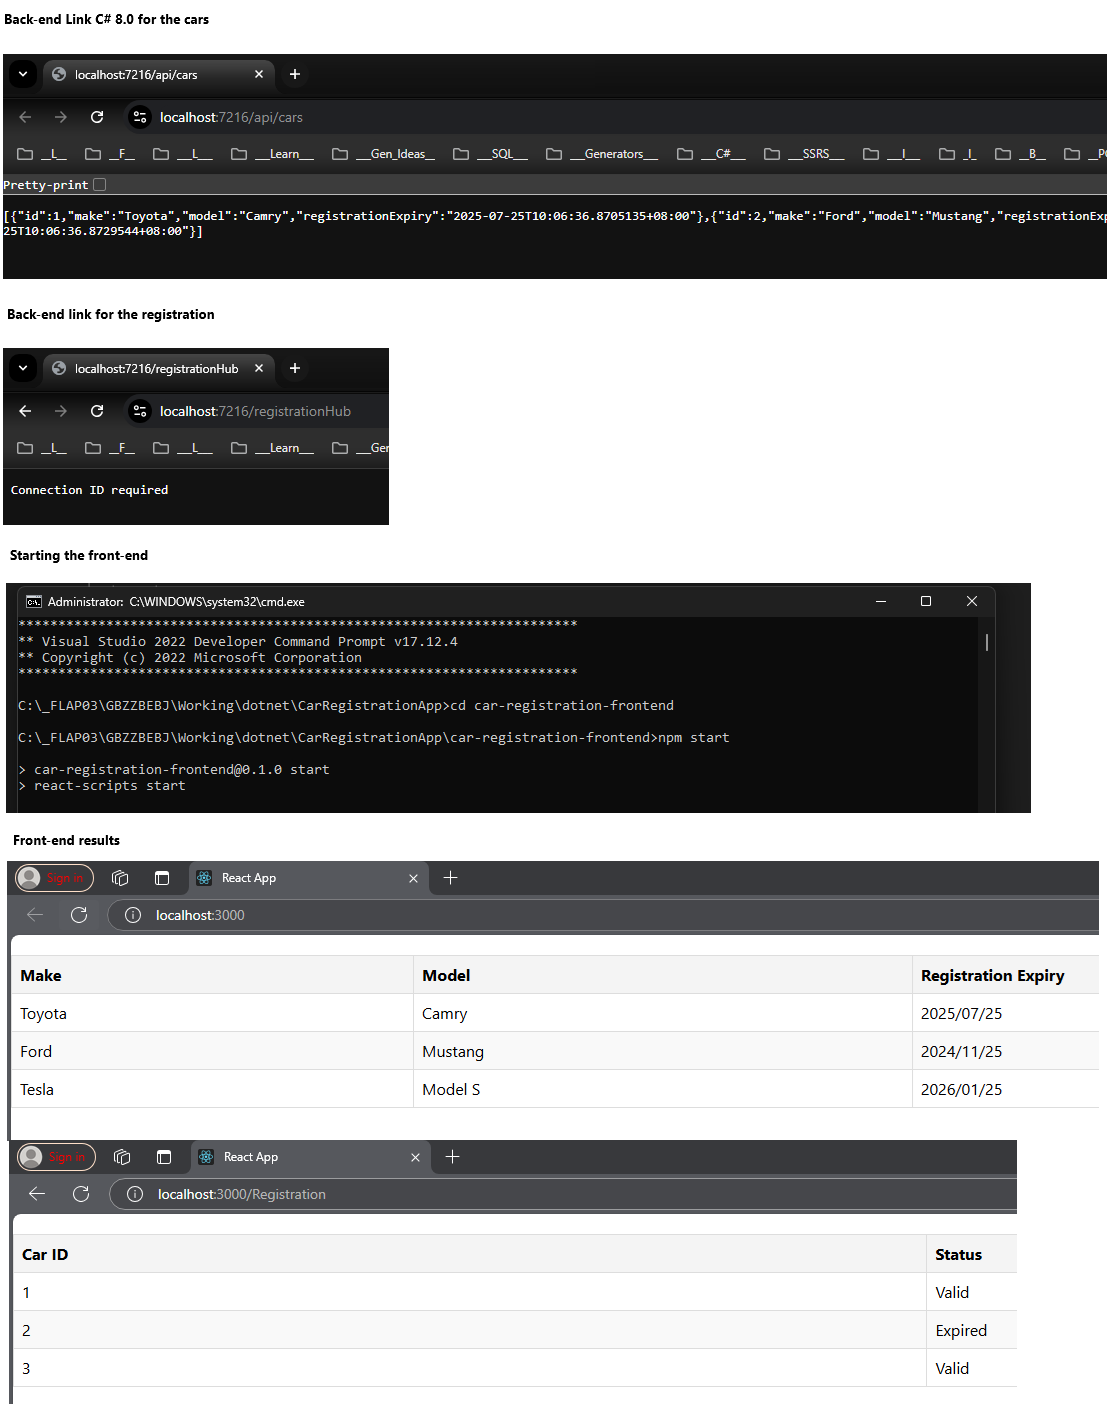
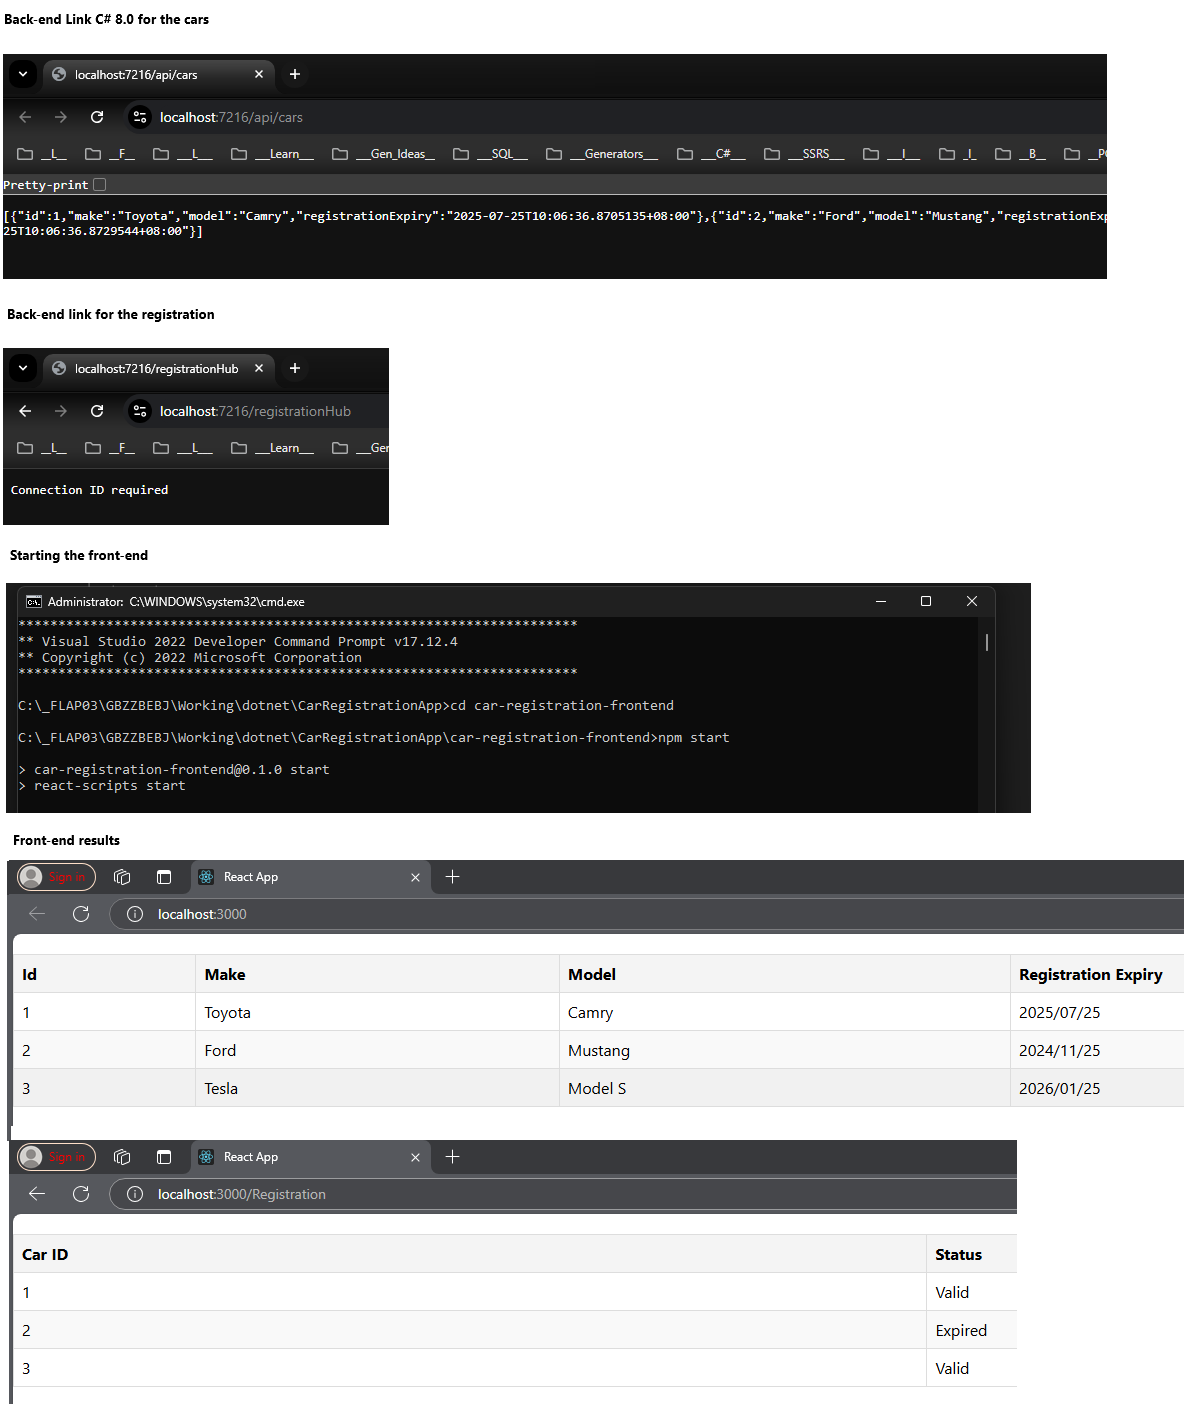
Axtions:
Added 	- an ID column to the Home.js
Updated	- The Results.png

diff --git a/car-registration-frontend/src/components/Home.js b/car-registration-frontend/src/components/Home.js
@@ -17,6 +17,7 @@ const Home = () => {
         <table>
             <thead>
                 <tr>
+                    <th>Id</th>				
                     <th>Make</th>
                     <th>Model</th>
                     <th>Registration Expiry</th>
@@ -25,6 +26,7 @@ const Home = () => {
             <tbody>
                 {cars.map(car => (
                     <tr key={car.id}>
+						<td>{car.id}</td>
                         <td>{car.make}</td>
                         <td>{car.model}</td>
                         <td>{new Date(car.registrationExpiry).toLocaleDateString()}</td>
